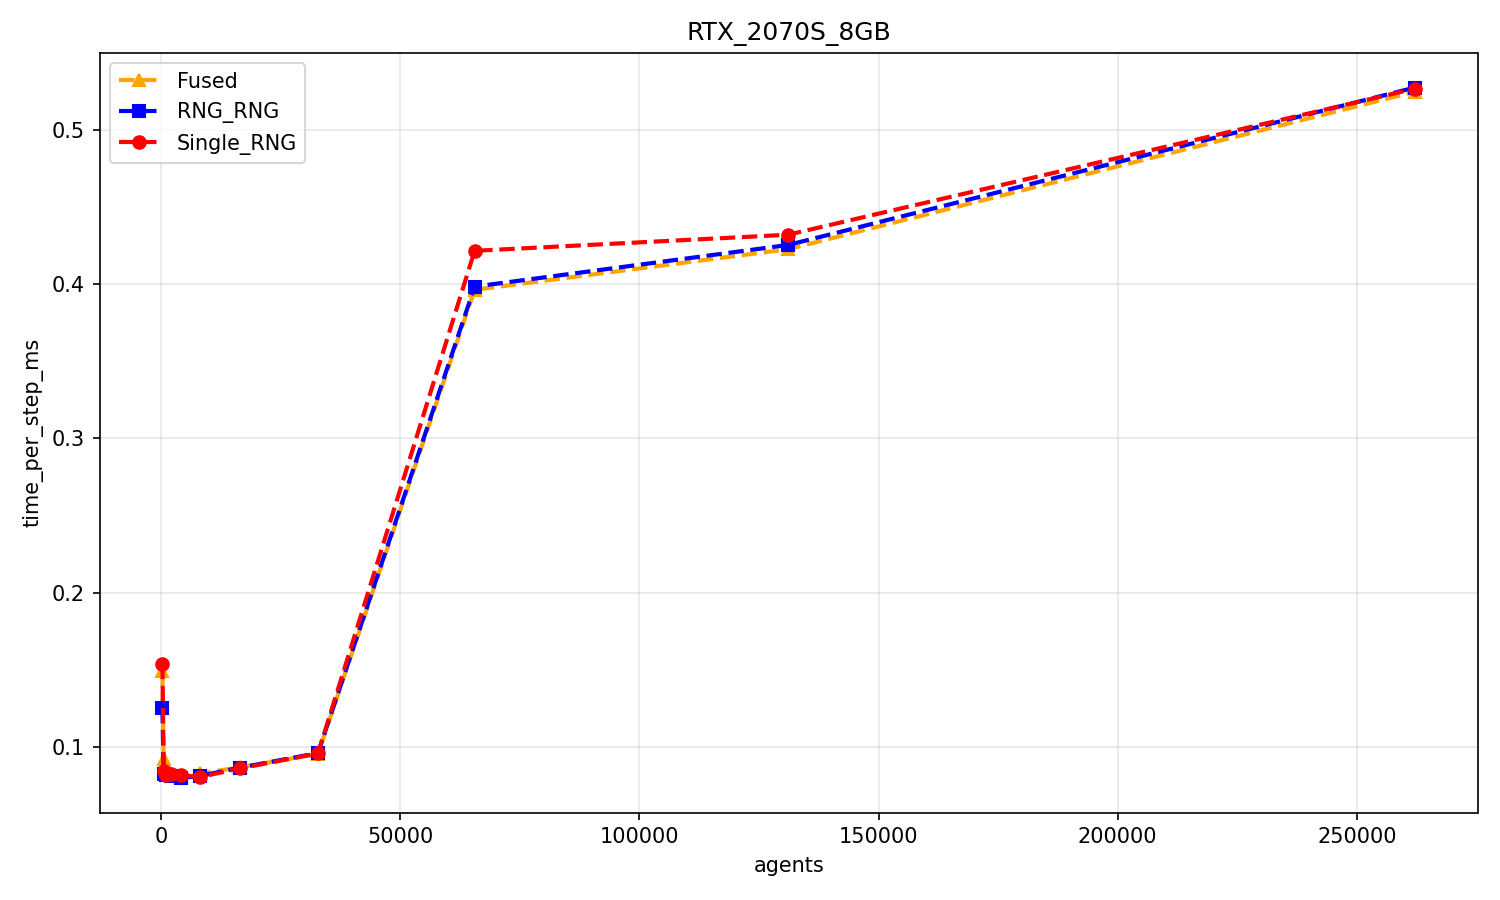
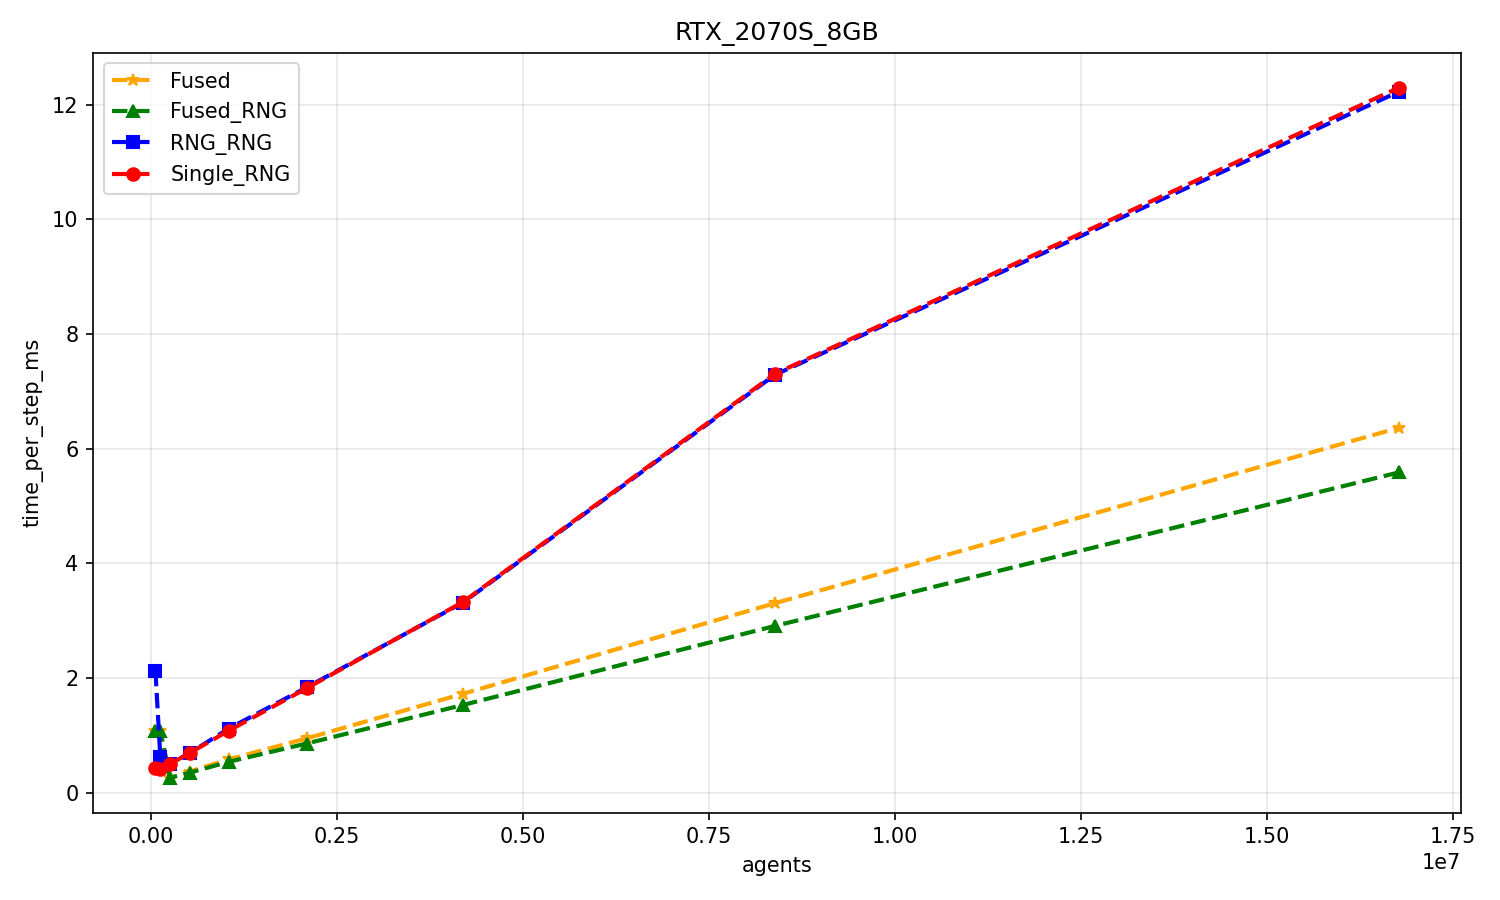
benchmark results

diff --git a/benchmark/rng/vis.py b/benchmark/rng/vis.py
@@ -54,12 +54,14 @@ def main():
     marker_by_benchmark = {
         "Single_RNG": "o",
         "RNG_RNG": "s",
-        "Fused": "^",
+        "Fused": "*",
+        "Fused_RNG": "^",
     }
     color_by_benchmark = {
         "Single_RNG": "red",
         "RNG_RNG": "blue",
         "Fused": "orange",
+        "Fused_RNG": "green",
     }
 
     for machine, machine_rows in by_machine.items():
